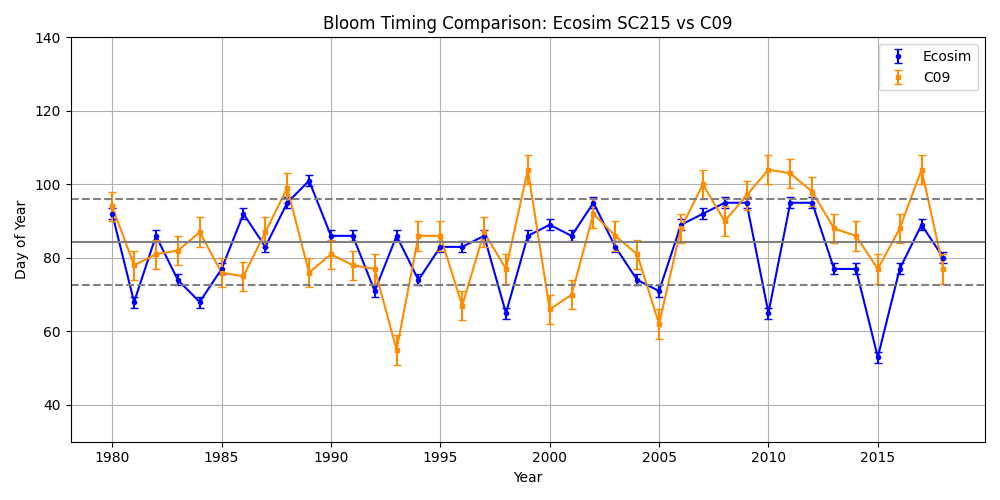
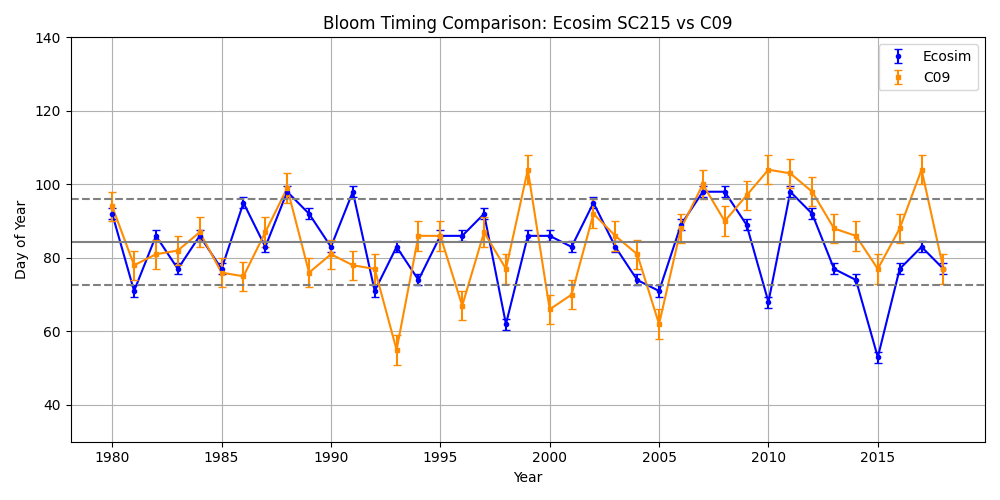
revised plot to include 1-D

diff --git a/scripts/PublicationScripts/ecospace_eval_4a_bloomt_CSoG.py b/scripts/PublicationScripts/ecospace_eval_4a_bloomt_CSoG.py
@@ -93,6 +93,15 @@ C09_COL = cfg.BT_C09_COL
 # Utility Functions
 # ================================
 
+def load_overlay_csv(path):
+    if not os.path.exists(path):
+        print(f"Overlay CSV not found: {path}")
+        return None
+    df = pd.read_csv(path)
+    if 'Bloom Date' in df.columns:
+        df['Bloom Date'] = pd.to_datetime(df['Bloom Date'], errors='coerce')
+    return df
+
 def convert_doy_to_date(doys, start_year):
     return [datetime(start_year + i, 1, 1) + timedelta(days=doy - 1) for i, doy in enumerate(doys)]
 
@@ -356,6 +365,7 @@ def compute_bloom_timing(ds, var_name, mask=None,
 # ================================
 # Plotting Functions
 # ================================
+
 def standardize_columns(df):
     for col in df.columns:
         if "Year" in col and col != "Year" and col != "Day of Year":
@@ -368,58 +378,107 @@ def standardize_columns(df):
     return df
 
 
-def plot_bloom_comparison(df_model, df_obs, label_model="Ecospace",
-                          label_obs="sat", title="Bloom Timing Comparison",
-                          filename="bloom_timing_plot.png"):
+def _standardize_model_cols(df, doy_name):
+    out = df.copy()
+    for col in out.columns:
+        if "Year" in col and col != "Year" and col != "Day of Year":
+            out = out.rename(columns={col: "Year"})
+            break
+    for col in out.columns:
+        if "Day of Year" in col and col != "Year" and col != doy_name:
+            out = out.rename(columns={col: doy_name})
+            break
+    return out
 
+
+def plot_bloom_comparison(
+    df_model,
+    df_obs,
+    label_model="SOGEM-LTL 2D",
+    label_obs="sat",
+    title="Bloom Timing Comparison",
+    filename="bloom_timing_plot.png",
+    df_overlay=None,
+    label_overlay="SOGEM-LTL 1-D",
+):
     df_obs = standardize_columns(df_obs)
+    df_model = _standardize_model_cols(df_model, "Day of Year_Model")
 
-    df_merged = df_model.merge(df_obs, on="Year", suffixes=("_Model", "_Obs"))
+    if df_overlay is not None:
+        df_overlay = _standardize_model_cols(df_overlay, "Day of Year_Overlay")
+
+    # Limit all plotted series to the observation years
+    plot_years = sorted(df_obs["Year"].dropna().astype(int).unique())
+
+    df_model = df_model[df_model["Year"].isin(plot_years)].copy()
+
+    if df_overlay is not None:
+        df_overlay = df_overlay[df_overlay["Year"].isin(plot_years)].copy()
 
     if label_obs == 'Satellite':
-        fig_w = 7; fig_h = 4
+        fig_w, fig_h = 7, 4
     else:
-        fig_w = 10; fig_h = 5
+        fig_w, fig_h = 10, 5
+
     fig, ax = plt.subplots(figsize=(fig_w, fig_h))
-    for col in df_merged.columns:
-        if "Day of Year" in col and col != "Day of Year_Obs":
-            df_merged = df_merged.rename(columns={col: "Day of Year_Model"})
-            break  # Stop after the first match
-    ax.errorbar(df_merged['Year'], df_merged['Day of Year_Obs'],
-                yerr=4, fmt='s', markersize=4,
-                label=label_obs, color='darkorange', capsize=3)
 
-    ax.errorbar(df_merged['Year'], df_merged['Day of Year_Model'],
-                yerr=1.5, fmt='o', markersize=4,
-                label=label_model, color='blue')
-    # line plots
-    ax.plot(df_merged['Year'], df_merged['Day of Year_Obs'], '-', color='darkorange',
-             markersize=0)
-    ax.plot(df_merged['Year'], df_merged['Day of Year_Model'], '-', color='blue',
-             markersize=0)
+    # observations
+    ax.errorbar(
+        df_obs['Year'], df_obs['Day of Year_Obs'],
+        yerr=4, fmt='s', markersize=4,
+        label=label_obs, color='darkorange', capsize=3
+    )
+    ax.plot(df_obs['Year'], df_obs['Day of Year_Obs'], '-', color='darkorange')
 
-    ax.grid(True)
+    # primary model (Ecospace)
+    ax.errorbar(
+        df_model['Year'], df_model['Day of Year_Model'],
+        yerr=1.5, fmt='o', markersize=4,
+        label=label_model, color='blue', capsize=3
+    )
+    ax.plot(df_model['Year'], df_model['Day of Year_Model'], '-', color='blue')
 
-    mean = np.nanmean(df_merged['Day of Year_Obs'])
-    std = np.nanstd(df_merged['Day of Year_Obs'])
+    # optional overlay model (Ecosim)
+    if df_overlay is not None and 'Day of Year_Overlay' in df_overlay.columns:
+        ax.errorbar(
+            df_overlay['Year'], df_overlay['Day of Year_Overlay'],
+            yerr=1.5, fmt='^',
+            markersize=4,
+            label=label_overlay,
+            color='blue', capsize=3
+        )
+        ax.plot(df_overlay['Year'],
+                df_overlay['Day of Year_Overlay'],
+                '--',
+                linewidth=1.5,
+                color='blue')
 
-    print(label_obs)
-    print(f"late bloom DoY: {mean+std}")
-    print(f"average bloom DoY {mean}")
-    print(f"early bloom DoY: {mean-std}")
-    ax.axhline(y=mean+std, linestyle='--', color='grey', label='') # late threshold
-    ax.axhline(y=mean, linestyle='-', color='grey', label='')      # average
-    ax.axhline(y=mean-std, linestyle='--', color='grey', label='') # early threshold
+    mean = np.nanmean(df_obs['Day of Year_Obs'])
+    std = np.nanstd(df_obs['Day of Year_Obs'])
+    ax.axhline(y=mean + std, linestyle='--', color='grey')
+    ax.axhline(y=mean, linestyle='-', color='grey')
+    ax.axhline(y=mean - std, linestyle='--', color='grey')
 
-    # ax.fill_between([x_min-0.5, x_max+0.5], 68, 108, color='lightgrey', alpha=0.3)
+    ymax = np.nanmax(df_obs['Day of Year_Obs'])
+    if len(df_model) > 0:
+        ymax = max(ymax, np.nanmax(df_model['Day of Year_Model']))
+    if df_overlay is not None and 'Day of Year_Overlay' in df_overlay.columns and len(df_overlay) > 0:
+        ymax = max(ymax, np.nanmax(df_overlay['Day of Year_Overlay']))
 
     ax.set_xlabel("Year")
     ax.set_ylabel("Day of Year")
     ax.set_title(title)
-    ax.set_ylim([MIN_Y_TICK, df_merged[["Day of Year_Model", "Day of Year_Obs"]].max().max() + 10])
+    ax.set_ylim([MIN_Y_TICK, ymax + 10])
+
+    if len(plot_years) > 0:
+        ax.set_xlim(min(plot_years) - 0.5, max(plot_years) + 0.5)
+        ax.set_xticks(plot_years if len(plot_years) <= 20 else plot_years[::2])
+
+    ax.grid(True)
     # ax.legend()
     plt.tight_layout()
     plt.savefig('..//..//figs//' + filename)
+    print("saved: " + filename)
     plt.show()
     plt.close()
 
@@ -720,6 +779,7 @@ def run_bt_eval() -> None:
         bloom_df_sat = pd.read_csv(bloom_csv_path_sat)
         print(f"Loaded bloom timing from cached files: {bloom_csv_path_sat}")
 
+
     print('bloom doy mean, C09:')
     print(C09_df['Day of Year_C09'].mean())
     print('bloom doy early and late thresholds, CO9:')
@@ -734,19 +794,31 @@ def run_bt_eval() -> None:
     print("Ecospace (Satellite):", bloom_df_sat.shape)
     print("Ecospace (C09):", bloom_df_C09.shape)
 
+    ecosim_sat_df = None
+    ecosim_c09_df = None
+
+    if getattr(cfg, "BT_OVERLAY_ECOSIM", False):
+        ecosim_sat_df = load_overlay_csv(cfg.BT_ECOSIM_SAT_CSV)
+        ecosim_c09_df = load_overlay_csv(cfg.BT_ECOSIM_C09_CSV)
+
     # Plot comparison with C09 1D model
     plot_bloom_comparison(
         bloom_df_C09, C09_df,
-        label_model="SOGEM-LTL", label_obs="C09 1D Model",
+        label_model="Ecospace", label_obs="C09 1D Model",
         title=f"Bloom Timing: {SCENARIO} vs C09",
-        filename=f"ecospace_vs_C09_{SCENARIO}.png")
+        filename=f"ecospace_vs_C09_{SCENARIO}.png",
+        df_overlay=ecosim_c09_df,
+        label_overlay=cfg.BT_ECOSIM_LABEL,
+    )
 
-    # Plot comparison with sat data
     plot_bloom_comparison(
         bloom_df_sat, sat_df,
-        label_model="SOGEM-LTL", label_obs="Satellite",
+        label_model="Ecospace", label_obs="Satellite",
         title=f"Bloom Timing: {SCENARIO} vs Satellite",
-        filename=f"ecospace_vs_satell_{SCENARIO}.png")
+        filename=f"ecospace_vs_satell_{SCENARIO}.png",
+        df_overlay=ecosim_sat_df,
+        label_overlay=cfg.BT_ECOSIM_LABEL,
+    )
 
     # Compute and print statistics
     stats_sat = evaluate_model(

diff --git a/scripts/PublicationScripts/ecospace_eval_config.py b/scripts/PublicationScripts/ecospace_eval_config.py
@@ -242,8 +242,8 @@ BT_DOMAIN_CONFIG_PATH = "C:/Users/Greig/Documents/github/Ecosystem-Model-Data-Fr
 BT_DOMAIN_FILE = "analysis_domains_suchy.yml"
 BT_SAT_MASK_PF = r'../../data/evaluation/suchy_ecospace_mask.nc'
 
-BT_RECOMPUTE_BLOOM_TIMING_SAT = True  # Set to True to force recomputation as needed, saves time
-BT_RECOMPUTE_BLOOM_TIMING_C09 = True
+BT_RECOMPUTE_BLOOM_TIMING_SAT = False  # Set to True to force recomputation as needed, saves time
+BT_RECOMPUTE_BLOOM_TIMING_C09 = False
 
 BT_START_YEAR = 1980 # analysis years (exclude spinup?)
 BT_END_YEAR = 2018
@@ -287,9 +287,16 @@ BT_PCT_MAX_WINDOW_DAYS_C09 = 6
 
 BT_DO_NUTRIENTS = False # another script does this now (#9?)
 # OVERRIDE_REDFIELD = True # added by GO to help eval 2025-06-03
-
 BT_MIN_Y_TICK = 38
 
+BT_OVERLAY_ECOSIM = True
+BT_ECOSIM_SAT_CSV = os.path.join(
+    EVALOUT_P, f"ecosim_bloom_timing_satellite_{ECOSPACE_SC}.csv"
+)
+BT_ECOSIM_C09_CSV = os.path.join(
+    EVALOUT_P, f"ecosim_bloom_timing_C09_{ECOSPACE_SC}.csv"
+)
+BT_ECOSIM_LABEL = "Ecosim"
 
 
 # -------------------------------------------

diff --git a/scripts/PublicationScripts/ecospace_eval_3b_QU39_vs_ecospace.py b/scripts/PublicationScripts/ecospace_eval_3b_QU39_vs_ecospace.py
@@ -873,6 +873,7 @@ def run_qu39_eval() -> None:
     # Round numeric statistics for export
     round_cols = ['R', 'obs_std', 'model_std', 'centered_RMSE',
                   'RMSE', 'Bias', 'MAE', 'WSS']
+
     for col in round_cols:
         if col in stats_df.columns:
             stats_df[col] = stats_df[col].round(2)

diff --git a/scripts/PublicationScripts/ecosim_eval_config.py b/scripts/PublicationScripts/ecosim_eval_config.py
@@ -235,7 +235,7 @@ START_FULL_BLM = "1980-01-01"
 END_FULL_BLM = "2018-12-31"
 
 BIOMASS_COLS_SATELLITE = ["17", "18", "19"]
-BIOMASS_COLS_C09 = ["17", "18", "19"]
+BIOMASS_COLS_C09 = ["17"]
 
 TOTAL_BIOMASS_COL_SATELLITE = "Biomass_Total_Satellite"
 TOTAL_BIOMASS_COL_C09 = "Biomass_Total_C09"
